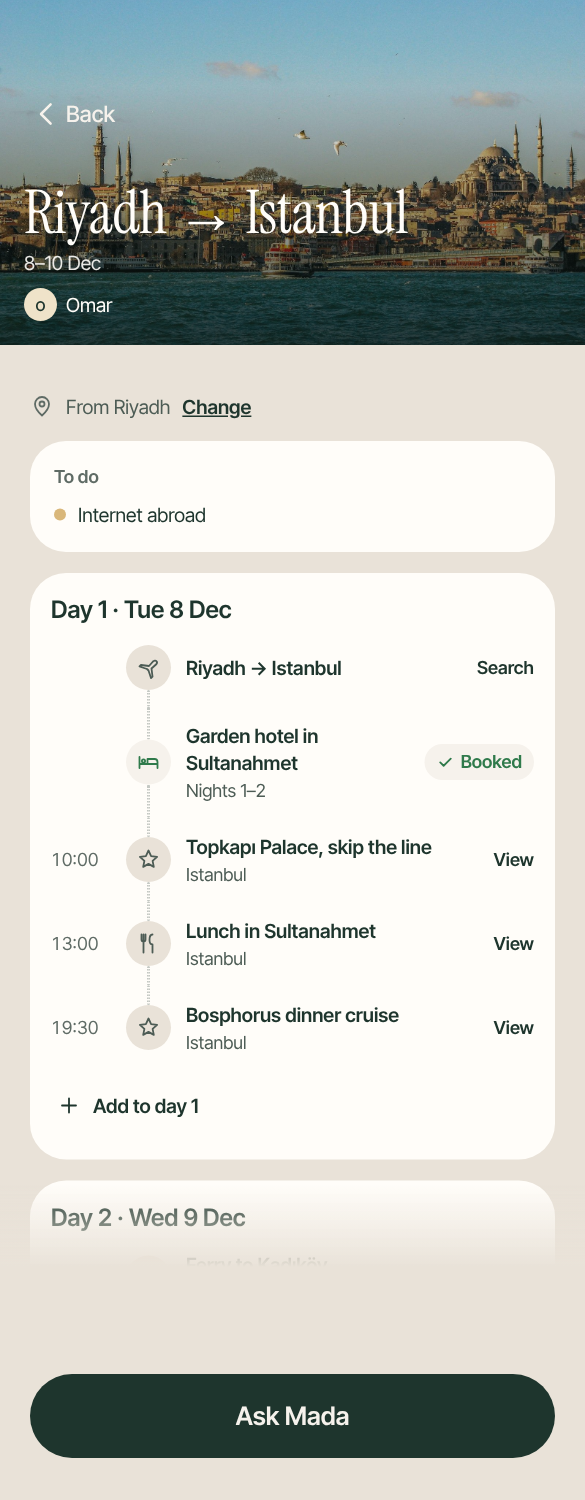
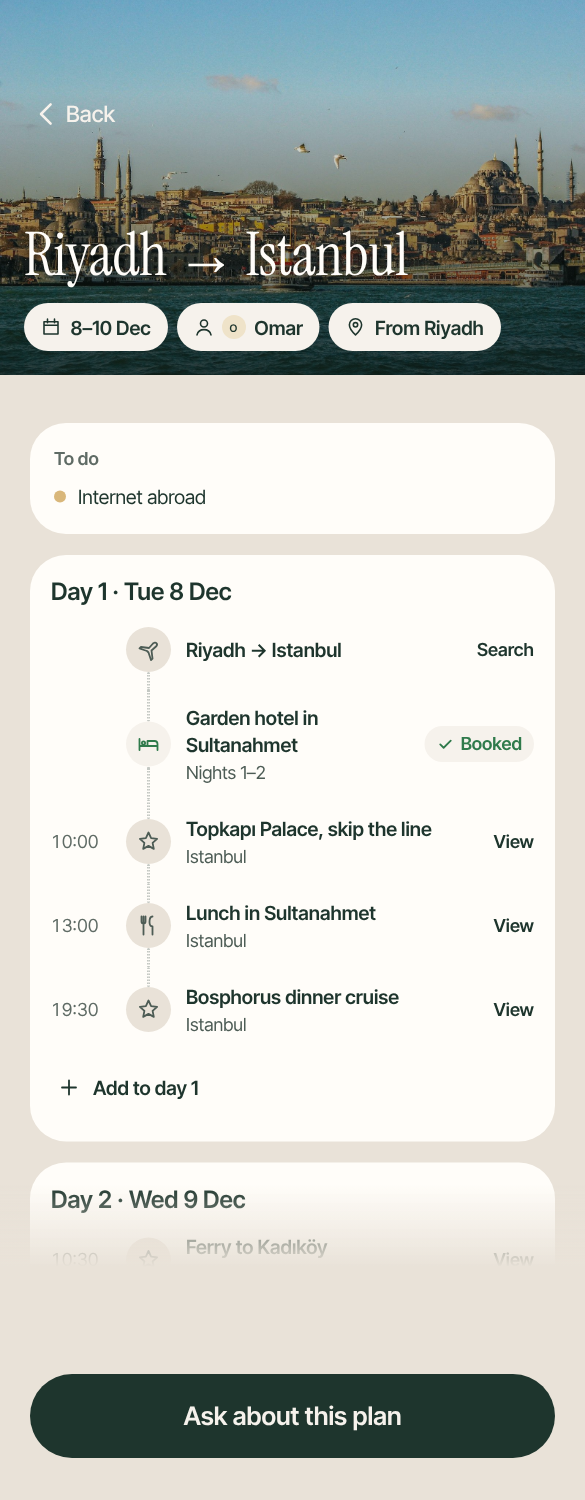
App plan screen: header chips and the bottom buttons (design v3)
Under the title on the photo: one row of quiet chips (dates, travellers
with small stacked initials, where it starts), each opening its edit:
dates through Ask, travellers to the Travellers screen, the start to the
existing origin sheet; the separate Change link is gone. Bottom: a gold
"Book what's ready · SAR …" when something is priced with a plain "Ask
about this plan" under it, otherwise just "Ask about this plan".

The mock's __madaMockPlan.price() prices a flight idea at a sample fare
for the screenshots (design-v3-plan-header-en).

Claude-Session: https://claude.ai/code/session_014wB6nCak73vNjTw1jPgcVE

diff --git a/apps/mobile/src/components/plan/PlanParts.tsx b/apps/mobile/src/components/plan/PlanParts.tsx
@@ -1,4 +1,4 @@
-import { useState } from 'react';
+import { useState, type ReactNode } from 'react';
 import { Pressable, StyleSheet, TextInput, View, Platform } from 'react-native';
 import { addDays, dayLabel, daysBetween, formatSar, nameIn, rangeLabel, type Plan, type PlanCheck, type PlanItem, type PlanPlace } from '@mada/shared';
 import { Button } from '@/components/Button';
@@ -150,42 +150,45 @@ export function ItemRow({ item, prices, onPress, testID, act, line }: { item: Pl
   );
 }
 
-/** The trip page's photo header for the plan: "Riyadh → AlUla", the dates and who's going over the city's photo. */
-export function PlanHero({ plan, people, photo, onBack }: { plan: Plan; people: { name: string; initial: string }[]; photo?: string | null; onBack: () => void }) {
-  const locale = getLocale();
+/** A quiet chip in the header: the app's chip (mist pill), a size smaller so the three sit on one line. */
+function MetaChip({ label, icon, onPress, testID }: { label: string; icon: ReactNode; onPress?: () => void; testID?: string }) {
   return (
-    <TripHero photo={photo} title={routeTitle(plan.title)} onBack={onBack} shadeId="plan-top" titleTestID="plan-title"
-      sub={<T v="small" color="rgba(255,253,249,0.9)" testID="plan-dates">{rangeLabel(plan.startDate, plan.endDate, locale)}</T>}>
-      {people.length ? (
-        <View style={{ flexDirection: 'row', flexWrap: 'wrap', gap: 8, marginTop: 4 }} testID="plan-people">
-          {people.map((p, i) => (
-            <View key={`${p.name}-${i}`} style={{ flexDirection: 'row', alignItems: 'center', gap: 6 }}>
-              <Initial letter={p.initial} size={22} gold={i === 0} />
-              <T v="small" color={colors.paper}>{nameIn(p.name, locale)}</T>
-            </View>
-          ))}
-        </View>
-      ) : null}
-    </TripHero>
+    <Pressable onPress={onPress ? () => { buzz('select'); onPress(); } : undefined} disabled={!onPress} accessibilityRole={onPress ? 'button' : undefined} accessibilityLabel={label} hitSlop={{ top: 6, bottom: 6 }} testID={testID}
+      style={({ pressed }) => [st.chip, pressed ? { transform: [{ scale: 0.97 }] } : null]}>
+      {icon}
+      <T v="small" color={colors.green} style={{ fontFamily: ff.ui600 }} numberOfLines={1}>{label}</T>
+    </Pressable>
   );
 }
 
-/** Where it starts (and Change, for the owner), under the photo header. */
-export function PlanHeader({ plan, canEdit, onOrigin }: { plan: Plan; canEdit: boolean; onOrigin: () => void }) {
+/**
+ * The trip page's photo header for the plan: "Riyadh → AlUla" over the city's photo, and under it one row of quiet
+ * chips (dates, who's going, where it starts), each opening its own edit.
+ */
+export function PlanHero({ plan, people, photo, onBack, onDates, onPeople, onOrigin }: {
+  plan: Plan; people: { name: string; initial: string }[]; photo?: string | null; onBack: () => void; onDates?: () => void; onPeople?: () => void; onOrigin?: () => void;
+}) {
+  const locale = getLocale();
+  const first = people[0] ? nameIn(people[0].name, locale) : null;
+  const who = first ? (people.length > 1 ? t('plan.meta.people', { name: first, n: people.length - 1 }) : first) : null;
   return (
-    <View style={{ gap: 10 }}>
-      <View style={st.line} testID="plan-origin">
-        <Icon name="pin" size={16} color={plan.origin ? colors.ink3 : colors.goldInk} />
-        <T v="small" color={plan.origin ? colors.ink2 : colors.goldInk} style={{ flexShrink: 1, fontFamily: plan.origin ? undefined : ff.ui600 }}>
-          {plan.origin ? t('plan.screen.from', { place: placeName(plan.origin) }) : t('plan.screen.startNeeded')}
-        </T>
-        {canEdit ? (
-          <Pressable onPress={() => { buzz('tap'); onOrigin(); }} hitSlop={10} accessibilityRole="button" testID="plan-origin-change">
-            <T v="small" color={colors.green} style={{ fontFamily: ff.ui600, textDecorationLine: 'underline' }}>{t('plan.screen.change')}</T>
-          </Pressable>
+    <TripHero photo={photo} title={routeTitle(plan.title)} onBack={onBack} shadeId="plan-top" titleTestID="plan-title" height={250}>
+      <View style={st.meta} testID="plan-meta">
+        <MetaChip label={rangeLabel(plan.startDate, plan.endDate, locale)} icon={<Icon name="calendar" size={14} color={colors.green} />} onPress={onDates} testID="plan-dates" />
+        {who ? (
+          <MetaChip label={who} onPress={onPeople} testID="plan-people" icon={(
+            <View style={{ flexDirection: 'row', alignItems: 'center', gap: 5 }}>
+              <Icon name="user" size={14} color={colors.green} />
+              <View style={{ flexDirection: 'row' }}>
+                {people.slice(0, 3).map((p, i) => <View key={`${p.name}-${i}`} style={i ? { marginStart: -5 } : null}><Initial letter={p.initial} size={16} gold={i === 0} /></View>)}
+              </View>
+            </View>
+          )} />
         ) : null}
+        <MetaChip label={plan.origin ? t('plan.screen.from', { place: placeName(plan.origin) }) : t('plan.screen.startNeeded')} onPress={onOrigin} testID="plan-origin"
+          icon={<Icon name="pin" size={14} color={plan.origin ? colors.green : colors.goldInk} />} />
       </View>
-    </View>
+    </TripHero>
   );
 }
 
@@ -301,6 +304,8 @@ export function Banner({ icon, text, tone = 'well', onClose, testID }: { icon: I
 export const st = StyleSheet.create({
   item: { flexDirection: 'row', alignItems: 'center', gap: 10, paddingVertical: 8, minHeight: 48 },
   time: { width: 40, fontVariant: ['tabular-nums'] },
+  meta: { flexDirection: 'row', flexWrap: 'wrap', gap: 6, marginTop: 8 },
+  chip: { flexDirection: 'row', alignItems: 'center', gap: 6, height: 32, paddingHorizontal: 11, borderRadius: 999, backgroundColor: colors.mist },
   // The day's dotted thread through the icons: it runs into the row's padding and half the gap so the rows join.
   thread: { alignSelf: 'stretch', alignItems: 'center', marginTop: -10, marginBottom: -10 },
   dots: { flex: 1, width: 0, minHeight: 10, borderWidth: 1, borderStyle: 'dotted', borderColor: 'rgba(30, 53, 45, 0.26)', borderRadius: 1 },

diff --git a/apps/mobile/src/app/trip/[id]/plan.tsx b/apps/mobile/src/app/trip/[id]/plan.tsx
@@ -10,7 +10,7 @@ import { Sheet } from '@/components/Sheet';
 import { T } from '@/components/Text';
 import { DemoFare } from '@/components/booking/DemoFare';
 import { Rise, SmallButton, TripScreen } from '@/components/trips/ui';
-import { AddForm, Banner, DaySection, OriginForm, PlanHeader, PlanHero, RowActTag, StatusTag, TodoCard, itemWords, placeName, rowActKind, rowActLabel, type RowAct } from '@/components/plan/PlanParts';
+import { AddForm, Banner, DaySection, OriginForm, PlanHero, RowActTag, StatusTag, TodoCard, itemWords, placeName, rowActKind, rowActLabel, type RowAct } from '@/components/plan/PlanParts';
 import { ApiError } from '@/lib/api';
 import { bookingApi, usePayDraft } from '@/lib/booking';
 import { buzz } from '@/lib/haptics';
@@ -119,16 +119,21 @@ export default function PlanScreen() {
     <TripScreen
       title={t('plan.screen.title')}
       onBack={onBack}
-      hero={<PlanHero plan={plan} people={data?.people ?? []} photo={photo} onBack={onBack} />}
+      hero={(
+        <PlanHero plan={plan} people={data?.people ?? []} photo={photo} onBack={onBack}
+          onDates={owner ? () => askAbout(t('plan.meta.datesSay')) : undefined}
+          onPeople={() => router.push(`/trip/${id}/travellers` as Href)}
+          onOrigin={owner ? () => setSheet({ kind: 'origin' }) : undefined} />
+      )}
       act={(
         <View style={{ gap: 8 }}>
           {ready ? (
             <>
               {ready.demo ? <DemoFare testID="plan-demo-fare" /> : null}
-              <Button label={t('plan.screen.bookReady', { amount: formatSar(ready.priced) })} onPress={() => { buzz('tap'); router.push({ pathname: '/pay', params: { plan: id } }); }} testID="plan-book-ready" />
+              <Button variant="gold" label={t('plan.screen.bookReady', { amount: formatSar(ready.priced) })} onPress={() => { buzz('tap'); router.push({ pathname: '/pay', params: { plan: id } }); }} testID="plan-book-ready" />
             </>
           ) : null}
-          <Button variant={ready ? 'secondary' : 'primary'} label={t('plan.screen.ask')} onPress={() => { buzz('tap'); router.push({ pathname: '/ask', params: { tripId: id } }); }} testID="plan-ask" />
+          <Button variant={ready ? 'ghost' : 'primary'} label={t('plan.screen.askPlan')} onPress={() => { buzz('tap'); router.push({ pathname: '/ask', params: { tripId: id } }); }} testID="plan-ask" />
         </View>
       )}
     >
@@ -144,7 +149,6 @@ export default function PlanScreen() {
           <Banner icon="lock" testID="plan-role"
             text={access.role === 'view' ? t('plan.role.view') : access.role === 'edit' ? t('plan.role.edit', { name: access.ownerName ?? '' }) : t('plan.role.suggest', { name: access.ownerName ?? '' })} />
         ) : null}
-        <Rise><PlanHeader plan={plan} canEdit={owner} onOrigin={() => setSheet({ kind: 'origin' })} /></Rise>
         <Rise step={1}><TodoCard checks={plan.checks} /></Rise>
         {/* Whole-trip items (an eSIM, insurance) before the days. */}
         {plan.items.some((i) => i.day == null) ? (

diff --git a/apps/mobile/src/lib/mock/plans.ts b/apps/mobile/src/lib/mock/plans.ts
@@ -17,7 +17,8 @@ import { mockTripChat, setMockTripChat } from './ask-threads';
  * drive interface's fixture is on the server.
  *
  * Mock only, for e2e and screenshots: `__MADA_DEMO__.planRole = 'suggest' | 'edit' | 'view'` reads the plan as a
- * companion; `__madaMockPlan.bump(tripId)` changes the plan "on another phone" (its version moves on).
+ * companion; `__madaMockPlan.bump(tripId)` changes the plan "on another phone" (its version moves on);
+ * `__madaMockPlan.price(tripId, amount)` prices its first flight idea at a sample fare (screenshots).
  */
 
 type Stored = { plan: Plan; owner: string };
@@ -160,7 +161,18 @@ function apply(user: MockUser, s: Stored, version: number, ops: PlanOp[]): WireR
 }
 
 /** Mock only: the plan changed on another phone (its version moves on, nothing else). */
-(globalThis as { __madaMockPlan?: unknown }).__madaMockPlan = { bump: (tripId: string) => { const s = plans.get(tripId); if (s) s.plan = { ...s.plan, version: s.plan.version + 1 }; return !!s; } };
+(globalThis as { __madaMockPlan?: unknown }).__madaMockPlan = {
+  bump: (tripId: string) => { const s = plans.get(tripId); if (s) s.plan = { ...s.plan, version: s.plan.version + 1 }; return !!s; },
+  /** Screenshots only: the plan's first flight idea priced at a sample fare, as a chosen search result would price it. */
+  price: (tripId: string, amount: number) => {
+    const s = plans.get(tripId);
+    const leg = s?.plan.items.find((i) => i.kind === 'leg' && i.mode === 'flight' && i.status === 'idea');
+    if (!s || !leg) return false;
+    const price = { amount, currency: 'SAR' as const, asOf: new Date().toISOString(), expiresAt: null, demo: true };
+    s.plan = { ...s.plan, items: s.plan.items.map((i) => (i.id === leg.id ? { ...i, status: 'priced' as const, price } : i)), totals: { priced: amount, booked: 0, currency: 'SAR', demo: true, ready: 1 } };
+    return true;
+  },
+};
 
 /** The plan card the demo conversation shows for a plan (the server's tools-plan.ts card, a few rows a day). */
 export function mockPlanCard(user: MockUser, plan: Plan): ChatCard {

diff --git a/apps/mobile/src/components/trips/ui.tsx b/apps/mobile/src/components/trips/ui.tsx
@@ -68,15 +68,15 @@ export const Veil = ({ id }: { id: string }) => <VGradient id={id} stops={[[0, '
 export const Shade = ({ id }: { id: string }) => <VGradient id={id} stops={[[0.25, 'rgba(15,26,22,0.05)'], [1, 'rgba(15,26,22,0.78)']]} />;
 
 /** A trip's photo header (the trip page's and the plan's): the city photo, Back over it, the title and a line under it. */
-export function TripHero({ photo, title, sub, onBack, shadeId = 'trip-top', children, titleTestID }: { photo?: string | null; title: string; sub: ReactNode; onBack: () => void; shadeId?: string; children?: ReactNode; titleTestID?: string }) {
+export function TripHero({ photo, title, sub, onBack, shadeId = 'trip-top', children, titleTestID, height = 230 }: { height?: number; photo?: string | null; title: string; sub?: ReactNode; onBack: () => void; shadeId?: string; children?: ReactNode; titleTestID?: string }) {
   return (
-    <Photo k={photo} style={{ height: 230, borderRadius: 0 }}>
+    <Photo k={photo} style={{ height, borderRadius: 0 }}>
       <Shade id={shadeId} />
       <View style={{ position: 'absolute', top: 0, start: 0, end: 0, zIndex: 2 }}><TopBar onBack={onBack} dark /></View>
       <View style={{ flex: 1, justifyContent: 'flex-end', padding: 16, gap: 4 }}>
         {titleTestID ? <View testID={titleTestID} accessibilityRole="header"><Display size={title.length > 18 ? 30 : 40} color={colors.paper}>{title}</Display></View>
           : <Display size={title.length > 18 ? 30 : 40} color={colors.paper}>{title}</Display>}
-        <T v="small" color="rgba(255,253,249,0.9)">{sub}</T>
+        {sub != null ? <T v="small" color="rgba(255,253,249,0.9)">{sub}</T> : null}
         {children}
       </View>
     </Photo>

diff --git a/packages/shared/src/copy/ar/planScreen.ts b/packages/shared/src/copy/ar/planScreen.ts
@@ -125,4 +125,7 @@ export const arPlanScreen: ArSection<typeof planScreenCopy> = {
   'trip.stay.manage': 'إدارة',
   'trip.stay.voucher': 'قسيمة الفندق',
   'trip.stay.directions': 'الاتجاهات',
+  'plan.screen.askPlan': 'اسأل عن هذي الخطة',
+  'plan.meta.people': '{name} +{n}',
+  'plan.meta.datesSay': 'أبي أغيّر تواريخ هالخطة',
 };

diff --git a/packages/shared/src/copy/plan-screen.ts b/packages/shared/src/copy/plan-screen.ts
@@ -135,4 +135,8 @@ export const planScreenCopy = {
   'trip.stay.manage': 'Manage',
   'trip.stay.voucher': 'Hotel voucher',
   'trip.stay.directions': 'Directions',
+  // The plan's header chips and its ask (design v3).
+  'plan.screen.askPlan': 'Ask about this plan',
+  'plan.meta.people': '{name} +{n}',
+  'plan.meta.datesSay': 'Change the dates of this plan',
 } as const;
